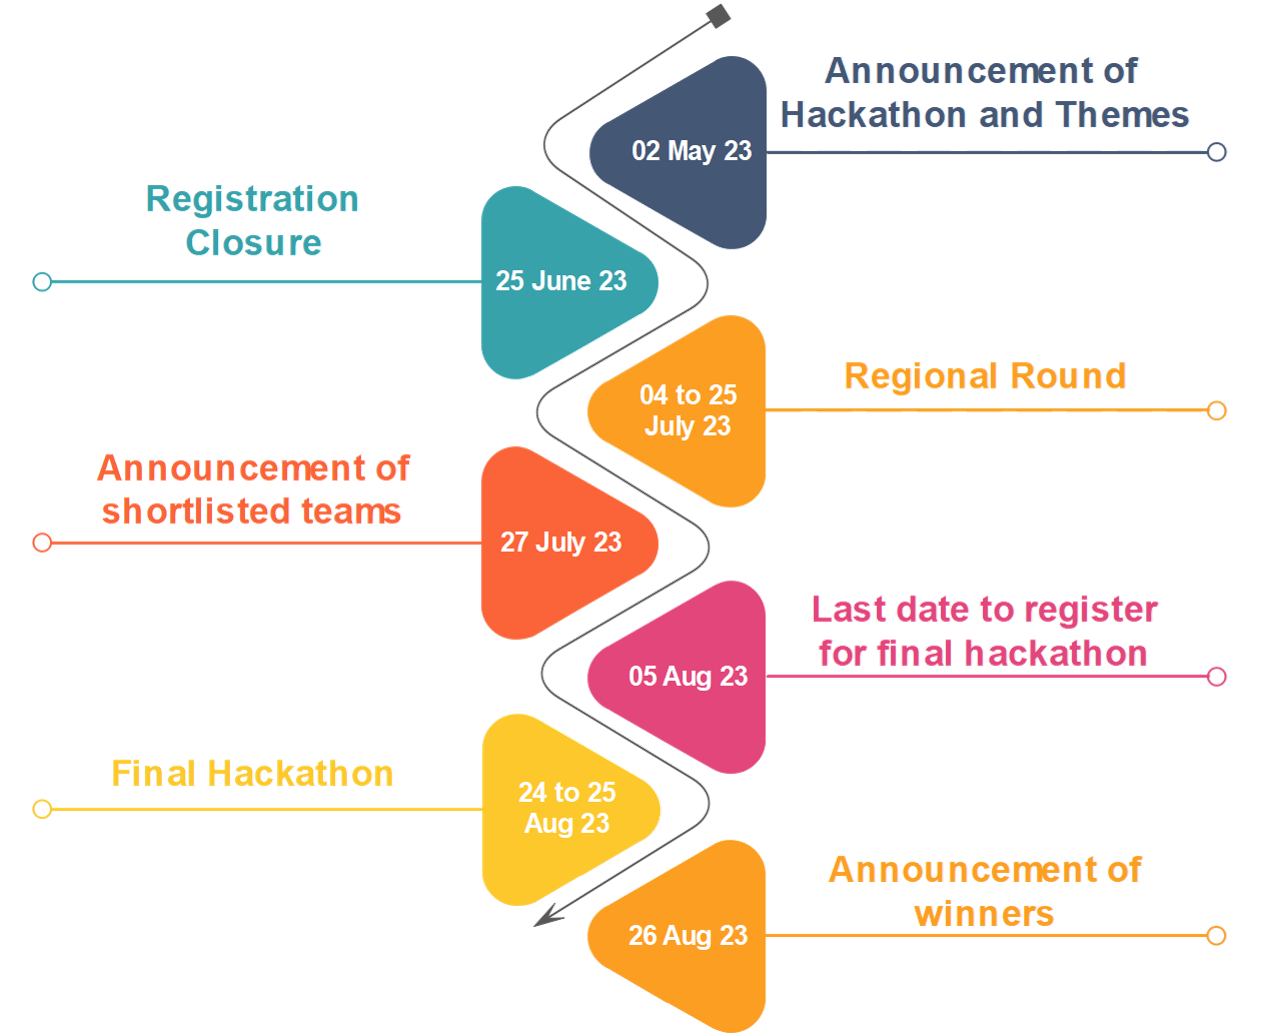
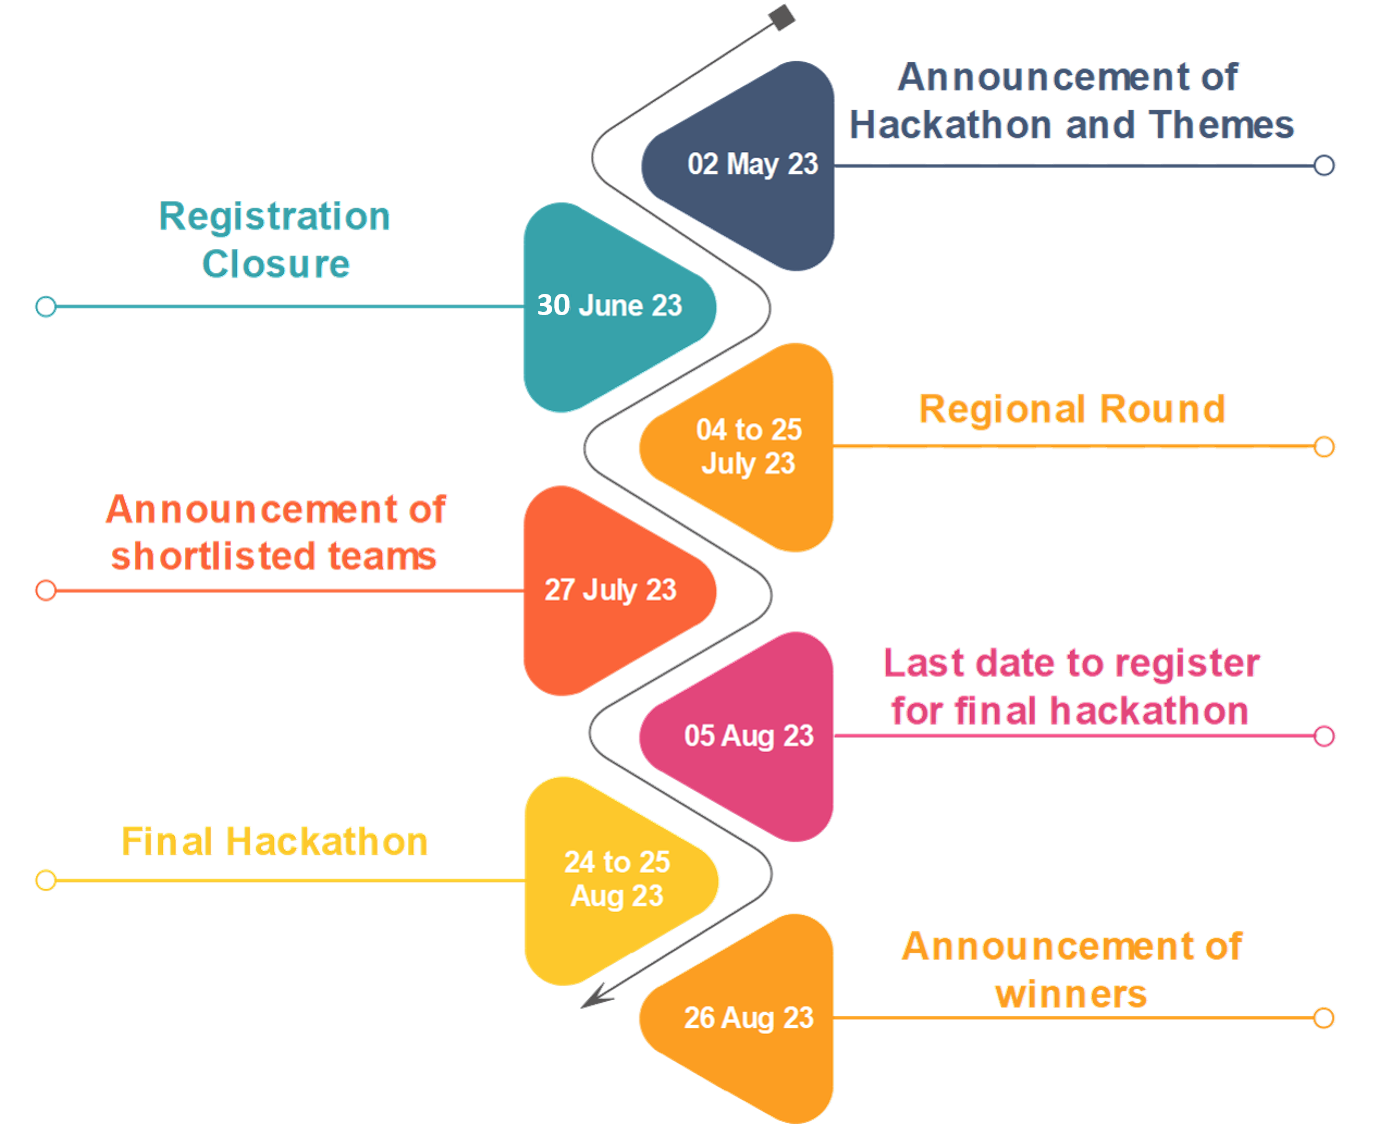
date extended

Changed region(s): [[0.6151, 0.8356, 0.9535, 0.9284], [0.3691, 0.2476, 0.4306, 0.2785], [0.1538, 0.1857, 0.1845, 0.2166]]

diff --git a/index.html b/index.html
@@ -87,7 +87,7 @@
 			</div>
 		</nav>
 		<div class="masthead" style="padding: 7rem 0 1em;">
-			<marquee class="runtext" direction="left" style="color: red; font-size: 25px;">Important announcement to the candidates, last date for registration is 25.06.2023.</marquee>
+			<marquee class="runtext" direction="left" style="color: red; font-size: 25px;">Important announcement to the candidates, last date for registration is extended to 30.06.2023.</marquee>
 			<br><br>
 			<div class="container d-flex h-100 align-items-center" data-aos="fade-up" data-aos-duration="1500">
 				<div class="mx-auto text-center no-select">
@@ -260,7 +260,7 @@
 								<h3 class="sub-heading diagonal-text orange sub-heading-title" id="heading"style="font-size: 2rem; padding:0%;">Regional Round Hackathon</h3>
 								<div style="display: flex; padding-bottom: 0.5%;margin-left: 25%;"><img src="img/dot.png" style="margin-top: 0.5%; height: 1.25%;width: 1.25%; margin-right: 0.5%;"><li style="font-size: 20px;font-weight: 400; text-align: left; width: 65%;text-align: justify;"> Students pursuing B.E/B.Tech can participate in teams</li></div>
 								<div style="display: flex; padding-bottom: 0.5%;margin-left: 25%;"><img src="img/dot.png" style="margin-top: 0.5%; height: 1.25%;width: 1.25%; margin-right: 0.5%;"><li style="font-size: 20px;font-weight: 400; text-align: left; width: 65%;text-align: justify;"> A team can have 2 to 4 members</li></div>
-								<div style="display: flex; padding-bottom: 0.5%;margin-left: 25%;"><img src="img/dot.png" style="margin-top: 0.5%; height: 1.25%;width: 1.25%; margin-right: 0.5%;"><li style="font-size: 20px;font-weight: 400; text-align: left; width: 65%;text-align: justify;"> Registration fee for regional round is <b>Rs.250 per team</b> and the last date for registration is <b>25.06.2023</b></li></div>
+								<div style="display: flex; padding-bottom: 0.5%;margin-left: 25%;"><img src="img/dot.png" style="margin-top: 0.5%; height: 1.25%;width: 1.25%; margin-right: 0.5%;"><li style="font-size: 20px;font-weight: 400; text-align: left; width: 65%;text-align: justify;"> Registration fee for regional round is <b>Rs.250 per team</b> and the last date for registration is <b>30.06.2023</b></li></div>
 								<div style="display: flex; padding-bottom: 0.5%;margin-left: 25%;"><img src="img/dot.png" style="margin-top: 0.5%; height: 1.25%;width: 1.25%; margin-right: 0.5%;"><li style="font-size: 20px;font-weight: 400; text-align: left; width: 65%;text-align: justify;"> All participants in a team should belong to the same institution</li></div>
 								<div style="display: flex; padding-bottom: 0.5%;margin-left: 25%;"><img src="img/dot.png" style="margin-top: 0.5%; height: 1.25%;width: 1.25%; margin-right: 0.5%;"><li style="font-size: 20px;font-weight: 400; text-align: left; width: 65%;text-align: justify;"> During the regional round, teams will be asked to present their idea on one of the given three themes</li></div>
 								<h3 class="sub-heading diagonal-text orange sub-heading-title" id="heading"style="font-size: 2rem; padding:0.75em 0 0;">Final Hackathon</h3>
@@ -272,7 +272,7 @@
 								<h3 class="sub-heading diagonal-text orange sub-heading-title" id="heading"style="font-size: 2rem; padding:0%;">Regional Round Hackathon</h3>
 								<div style="display: flex; padding-bottom: 0.5%;"><img src="img/dot.png" style="margin-top: 2%; height: 1.25%;width: 1.25%; margin-right: 0.75%;"><li style="font-size: 12px;font-weight: 400; text-align: left; width: 88%;text-align: justify;"> Students pursuing B.E/B.Tech can participate in teams</li></div>
 								<div style="display: flex; padding-bottom: 0.5%;"><img src="img/dot.png" style="margin-top: 2%; height: 1.25%;width: 1.25%; margin-right: 0.75%;"><li style="font-size: 12px;font-weight: 400; text-align: left; width: 88%;text-align: justify;"> A team can have 2 to 4 members</li></div>
-								<div style="display: flex; padding-bottom: 0.5%;"><img src="img/dot.png" style="margin-top: 2%; height: 1.25%;width: 1.25%; margin-right: 0.75%;"><li style="font-size: 12px;font-weight: 400; text-align: left; width: 88%;text-align: justify;"> Registration fee for the regional rounds is <b>Rs.250 per team</b> and the last date for registration is <b>25.06.2023</b></li></div>
+								<div style="display: flex; padding-bottom: 0.5%;"><img src="img/dot.png" style="margin-top: 2%; height: 1.25%;width: 1.25%; margin-right: 0.75%;"><li style="font-size: 12px;font-weight: 400; text-align: left; width: 88%;text-align: justify;"> Registration fee for the regional rounds is <b>Rs.250 per team</b> and the last date for registration is <b>30.06.2023</b></li></div>
 								<div style="display: flex; padding-bottom: 0.5%;;"><img src="img/dot.png" style="margin-top: 2%; height: 1.25%;width: 1.25%; margin-right: 0.75%;"><li style="font-size: 12px;font-weight: 400; text-align: left; width: 88%;text-align: justify;"> All participants in a team should belong to the same institution</li></div>
 								<div style="display: flex; padding-bottom: 0.5%;;"><img src="img/dot.png" style="margin-top: 2%; height: 1.25%;width: 1.25%; margin-right: 0.75%;"><li style="font-size: 12px;font-weight: 400; text-align: left; width: 88%;text-align: justify;"> During the regional round, teams will be asked to present their idea on one of the given three themes</li></div>
 								<h3 class="sub-heading diagonal-text orange sub-heading-title" id="heading"style="font-size: 2rem; padding:0.75em 0 0;">Final Hackathon</h3>

diff --git a/guideline.html b/guideline.html
@@ -103,7 +103,7 @@
 								<h3 class="sub-heading diagonal-text orange sub-heading-title" id="heading"style="font-size: 2rem; padding:0%;">Regional Round Hackathon</h3>
 								<div style="display: flex; padding-bottom: 0.5%;margin-left: 25%;"><img src="img/dot.png" style="margin-top: 0.5%; height: 1.25%;width: 1.25%; margin-right: 0.5%;"><li style="font-size: 20px;font-weight: 400; text-align: left; width: 65%;text-align: justify;"> Students pursuing B.E/B.Tech can participate in teams</li></div>
 								<div style="display: flex; padding-bottom: 0.5%;margin-left: 25%;"><img src="img/dot.png" style="margin-top: 0.5%; height: 1.25%;width: 1.25%; margin-right: 0.5%;"><li style="font-size: 20px;font-weight: 400; text-align: left; width: 65%;text-align: justify;"> A team can have 2 to 4 members</li></div>
-								<div style="display: flex; padding-bottom: 0.5%;margin-left: 25%;"><img src="img/dot.png" style="margin-top: 0.5%; height: 1.25%;width: 1.25%; margin-right: 0.5%;"><li style="font-size: 20px;font-weight: 400; text-align: left; width: 65%;text-align: justify;"> Registration fee for regional round is <b>Rs.250 per team</b> and the last date for registration is <b>25.06.2023</b></li></div>
+								<div style="display: flex; padding-bottom: 0.5%;margin-left: 25%;"><img src="img/dot.png" style="margin-top: 0.5%; height: 1.25%;width: 1.25%; margin-right: 0.5%;"><li style="font-size: 20px;font-weight: 400; text-align: left; width: 65%;text-align: justify;"> Registration fee for regional round is <b>Rs.250 per team</b> and the last date for registration is <b>30.06.2023</b></li></div>
 								<div style="display: flex; padding-bottom: 0.5%;margin-left: 25%;"><img src="img/dot.png" style="margin-top: 0.5%; height: 1.25%;width: 1.25%; margin-right: 0.5%;"><li style="font-size: 20px;font-weight: 400; text-align: left; width: 65%;text-align: justify;"> All participants in a team should belong to the same institution</li></div>
 								<div style="display: flex; padding-bottom: 0.5%;margin-left: 25%;"><img src="img/dot.png" style="margin-top: 0.5%; height: 1.25%;width: 1.25%; margin-right: 0.5%;"><li style="font-size: 20px;font-weight: 400; text-align: left; width: 65%;text-align: justify;"> During the regional round, teams will be asked to present their idea on one of the given three themes</li></div>
 								<h3 class="sub-heading diagonal-text orange sub-heading-title" id="heading"style="font-size: 2rem; padding:0.75em 0 0;">Final Hackathon</h3>
@@ -115,7 +115,7 @@
 								<h3 class="sub-heading diagonal-text orange sub-heading-title" id="heading"style="font-size: 2rem; padding:0%;margin-top:0.25em !important;">Regional Round Hackathon</h3>
 								<div style="display: flex; padding-bottom: 0.5%;"><img src="img/dot.png" style="margin-top: 2%; height: 1.25%;width: 1.25%; margin-right: 0.75%;"><li style="font-size: 12px;font-weight: 400; text-align: left; width: 88%;text-align: justify;"> Students pursuing B.E/B.Tech can participate in teams</li></div>
 								<div style="display: flex; padding-bottom: 0.5%;"><img src="img/dot.png" style="margin-top: 2%; height: 1.25%;width: 1.25%; margin-right: 0.75%;"><li style="font-size: 12px;font-weight: 400; text-align: left; width: 88%;text-align: justify;"> A team can have 2 to 4 members</li></div>
-								<div style="display: flex; padding-bottom: 0.5%;"><img src="img/dot.png" style="margin-top: 2%; height: 1.25%;width: 1.25%; margin-right: 0.75%;"><li style="font-size: 12px;font-weight: 400; text-align: left; width: 88%;text-align: justify;"> Registration fee for the regional rounds is <b>Rs.250 per team</b> and the last date for registration is <b>25.06.2023</b></li></div>
+								<div style="display: flex; padding-bottom: 0.5%;"><img src="img/dot.png" style="margin-top: 2%; height: 1.25%;width: 1.25%; margin-right: 0.75%;"><li style="font-size: 12px;font-weight: 400; text-align: left; width: 88%;text-align: justify;"> Registration fee for the regional rounds is <b>Rs.250 per team</b> and the last date for registration is <b>30.06.2023</b></li></div>
 								<div style="display: flex; padding-bottom: 0.5%;"><img src="img/dot.png" style="margin-top: 2%; height: 1.25%;width: 1.25%; margin-right: 0.75%;"><li style="font-size: 12px;font-weight: 400; text-align: left; width: 88%;text-align: justify;"> All participants in a team should belong to the same institution</li></div>
 								<div style="display: flex; padding-bottom: 0.5%;"><img src="img/dot.png" style="margin-top: 2%; height: 1.25%;width: 1.25%; margin-right: 0.75%;"><li style="font-size: 12px;font-weight: 400; text-align: left; width: 88%;text-align: justify;"> During the regional round, teams will be asked to present their idea on one of the given three themes</li></div>
 								<h3 class="sub-heading diagonal-text orange sub-heading-title" id="heading"style="font-size: 2rem; padding:0.75em 0 0; margin-top:0.25em !important;">Final Hackathon</h3>
